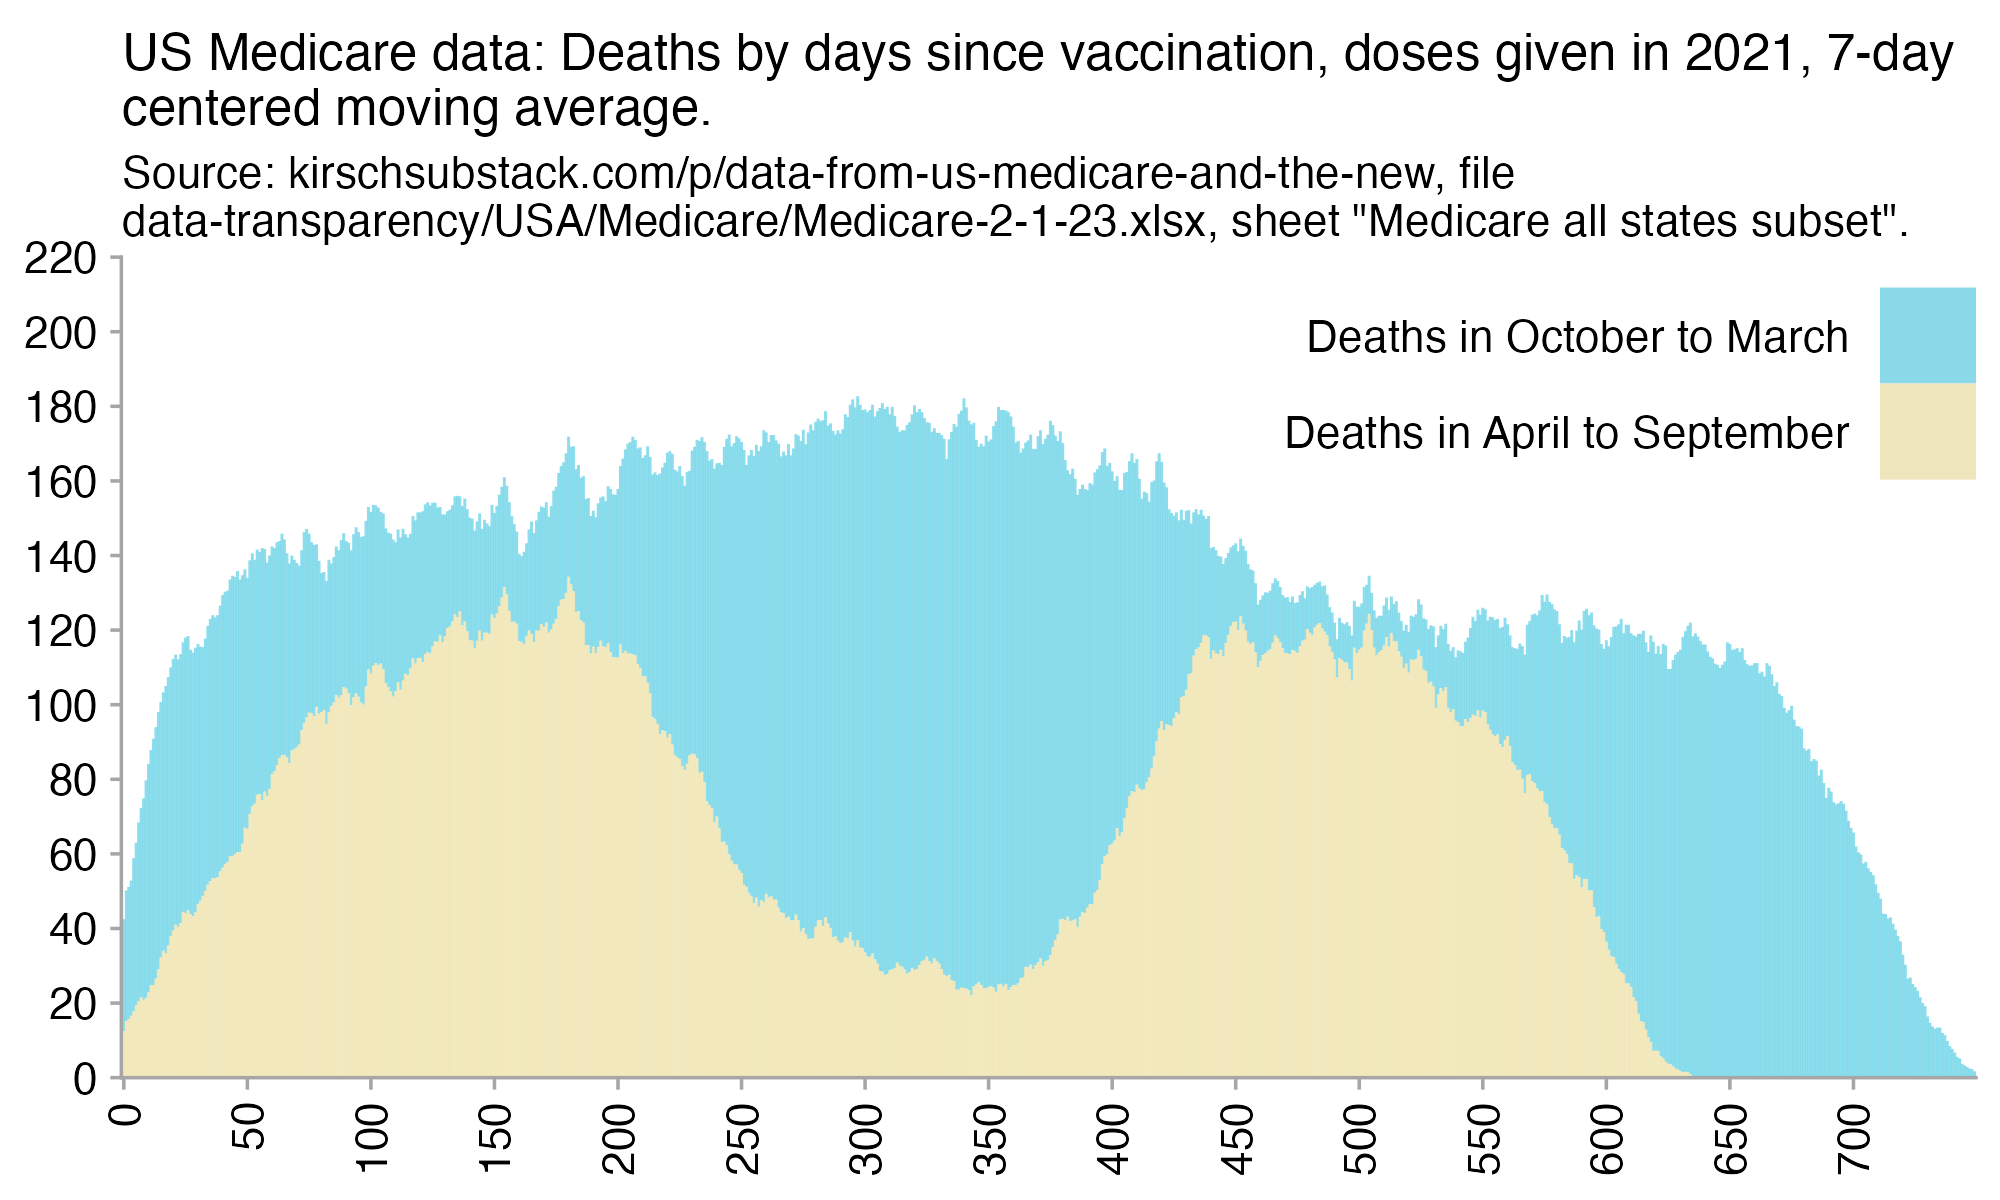
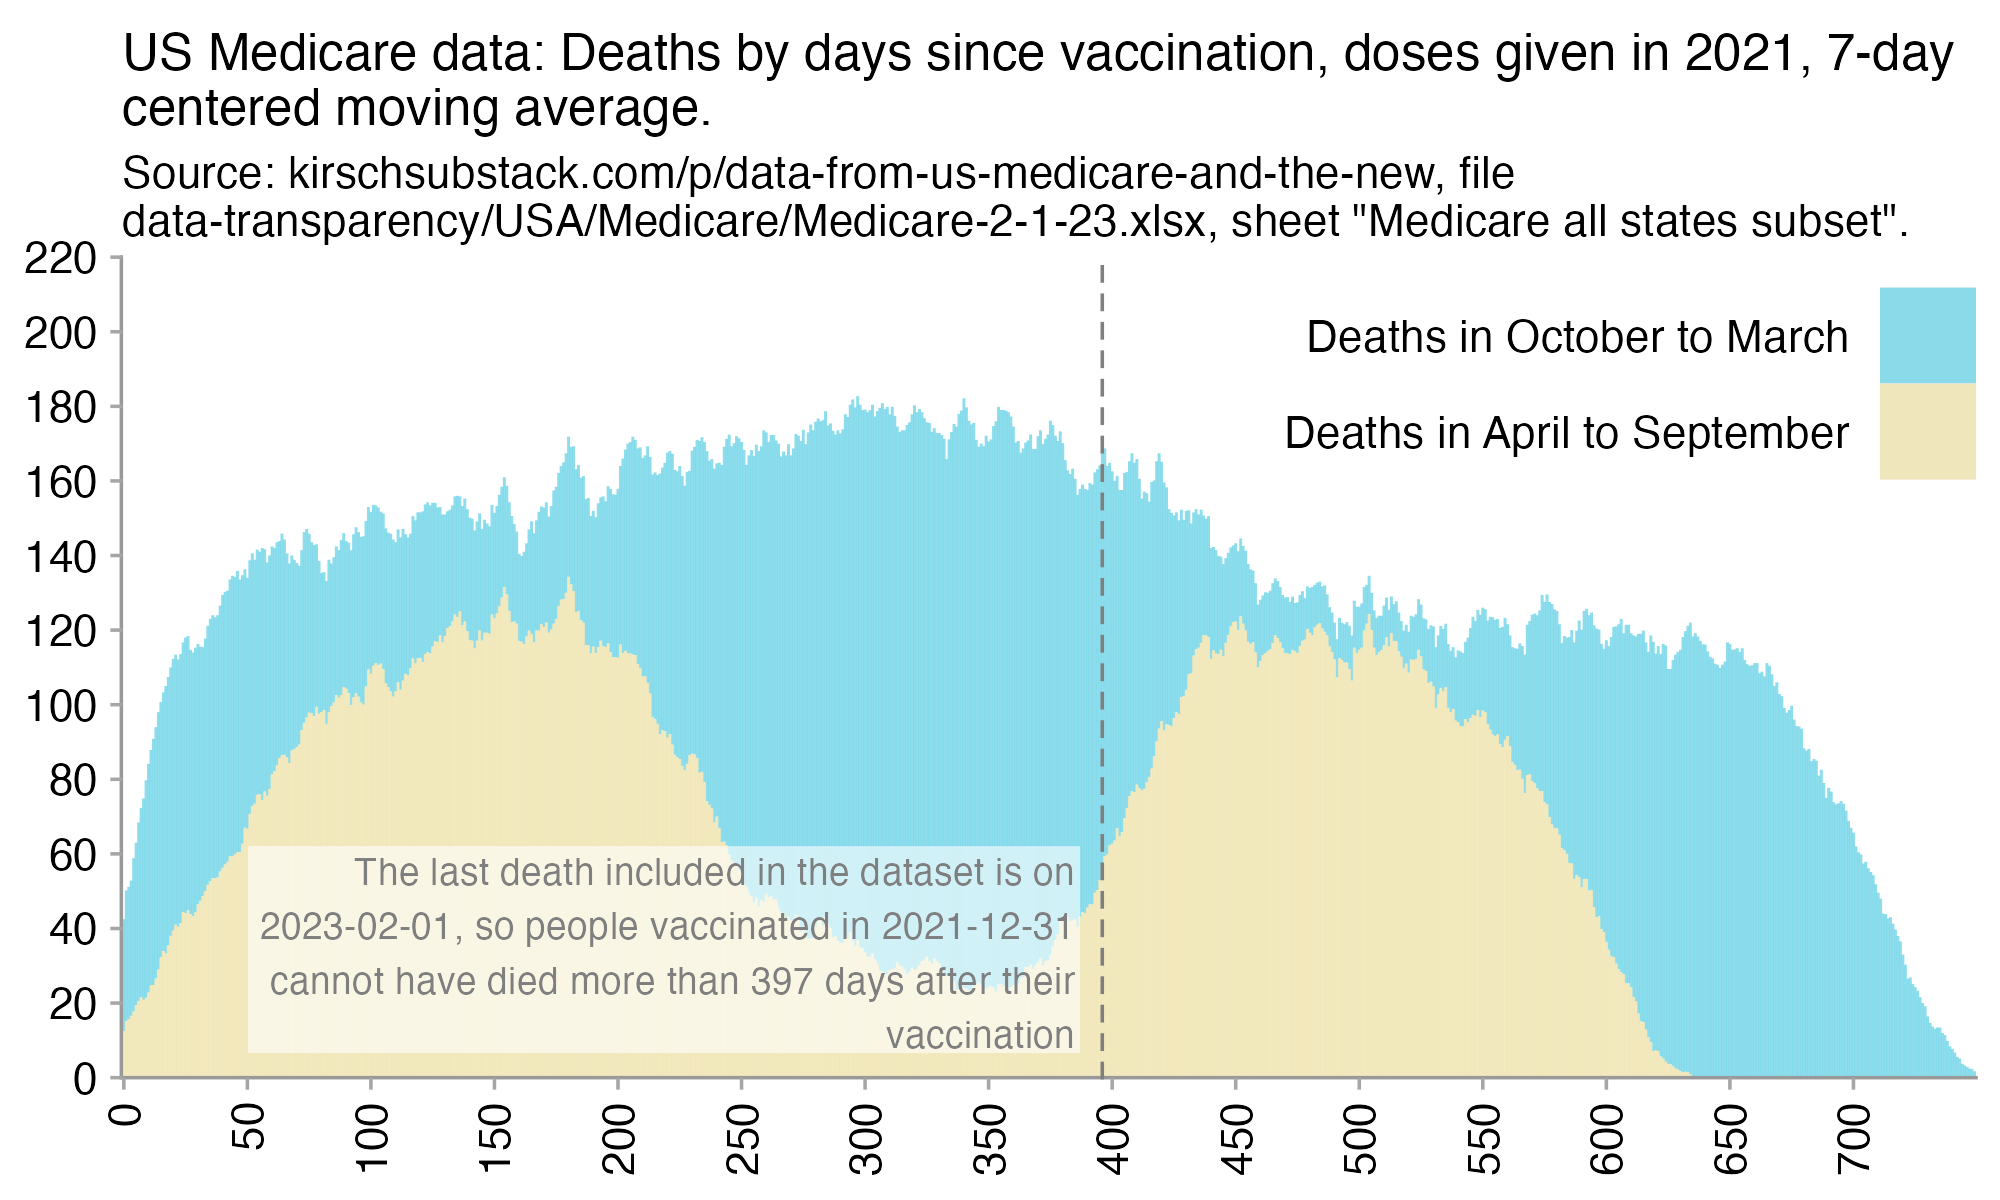
a

Changed region(s): [[0.124, 0.6783, 0.558, 0.8942]]

diff --git a/moar.html b/moar.html
@@ -2438,7 +2438,8 @@ ggsave(&quot;1.png&quot;,width=6,height=4)</pre>
 <div class="width6">
 <img src="i/moar-medicare-10.png">
 </div>
-<p>But if you sample the same number of doses from each month, then you get a more flat distribution of deaths during the first year:</p>
+<p>In the plot above the increasing trend reverses around 300-350 which is partially because the peak in winter mortality has passed. The last death included in the dataset is on February 1st 2023, so if someone was vaccinated on December 31st 2021 then they couldn't have died more than 397 days after their vaccination. But there is also a reduced number of deaths in late January 2023, which is probably because deaths are missing because of a registration delay.</p>
+<p>But anyway, if you sample the same number of doses from each month, then you get a more flat distribution of deaths during the first year:</p>
 <div class="width6">
 <img src="i/moar-medicare-11.png">
 </div>
@@ -2448,27 +2449,10 @@ ggsave(&quot;1.png&quot;,width=6,height=4)</pre>
 <img src="i/moar-medicare-9.jpg">
 </div>
 <p>A comment in the sheet above says: <span class="quote">&quot;The vax date listed in the record is the date of the FIRST vaccine (that Medicare knows about for the patient) ONLY&quot;</span>. However I don't know if the full data includes multiple doses per some people and not just one dose. In the subset of the data, there seems to be depressed mortality for around 50 days after vaccination, but in the full data the period with the most clearly depressed mortality only lasts for about 20-25 days, and there's a sharp inflection point at around day 20-25. It might be if people who got the second dose within 3 weeks from the first dose are included twice under the first 3 weeks, because the recommended minimum delay between the first two doses of the Pfizer vaccine was 3 weeks, and in the New Zealand data there's a large number of people who got the first two doses 21 days apart from each other.</p>
-<p>This plot should also demonstrate that the increasing trend in deaths on days 150-300 from vaccination mostly comes from doses given in the first 4 months of 2021, but a similar increasing trend is later visible in doses given in January-April 2022:</p>
-<div class="width8">
-<img src="i/moar-medicare-12.png">
+<p>However if you sample the same number of doses from each month, then for some reason there seems to be a sharper inflection point around day 20-30:</p>
+<div class="width6">
+<img src="i/moar-medicare-13.png">
 </div>
-<pre>med=read.csv(&quot;https://mongol-fi.github.io/f/kirsch_medicare_all_states_subset.csv&quot;)
-med[,2]=as.Date(med[,2])
-med[,3]=as.Date(med[,3])
-
-m=with(med,table(format(date_of_vaccination,&quot;%Y-%m&quot;),as.numeric(date_of_death-date_of_vaccination)%/%30*30))
-colnames(m)=paste0(colnames(m),&quot;-&quot;,as.numeric(colnames(m))+29)
-
-pheatmap::pheatmap(
-  m,filename=&quot;0.png&quot;,display_numbers=round(m),
-  cluster_rows=F,cluster_cols=F,legend=F,border_color=NA,
-  cellwidth=19,cellheight=19,fontsize=9,fontsize_number=8,na_col=&quot;white&quot;,
-  number_color=ifelse(abs(m)&gt;.75*max(m),&quot;white&quot;,&quot;black&quot;),
-  breaks=seq(0,max(m),,256),
-  colorRampPalette(hex(HSV(c(210,210,210,210,150,100,60,45,30,15,0,0,0,0,0,0),c(0,.166,.333,rep(.5,9),.7,.9,1,1),c(rep(1,12),.75,.5,.25,0))))(256)
-)
-
-system(&quot;convert -trim 0.png -gravity northwest -splice x14 -size `identify -format %w 0.png`x -pointsize 48 caption:&#39;US Medicare data: number of deaths by days from vaccination to death and by month of vaccination&#39; +swap -append -trim -bordercolor white -border 24 +repage 1.png&quot;)</pre>
 <h3>
 <a href=#Data_for_deaths_in_2020_2023_in_Maldives id=Data_for_deaths_in_2020_2023_in_Maldives>Data for deaths in 2020-2023 in Maldives</a>
 </h3>
